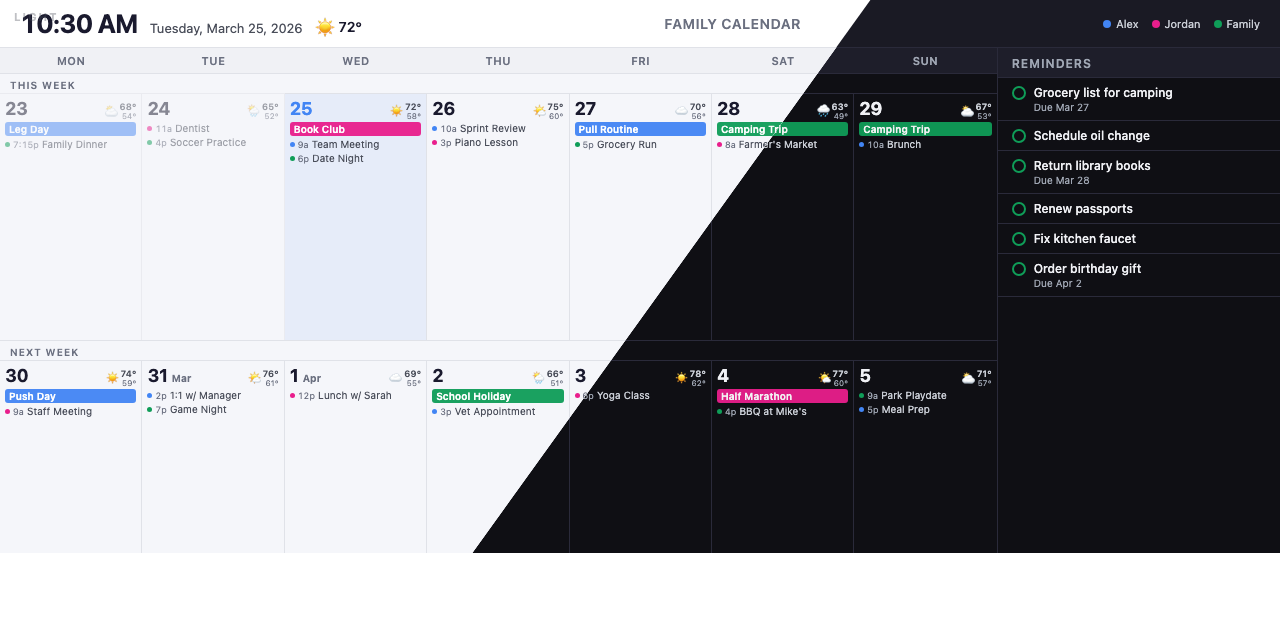
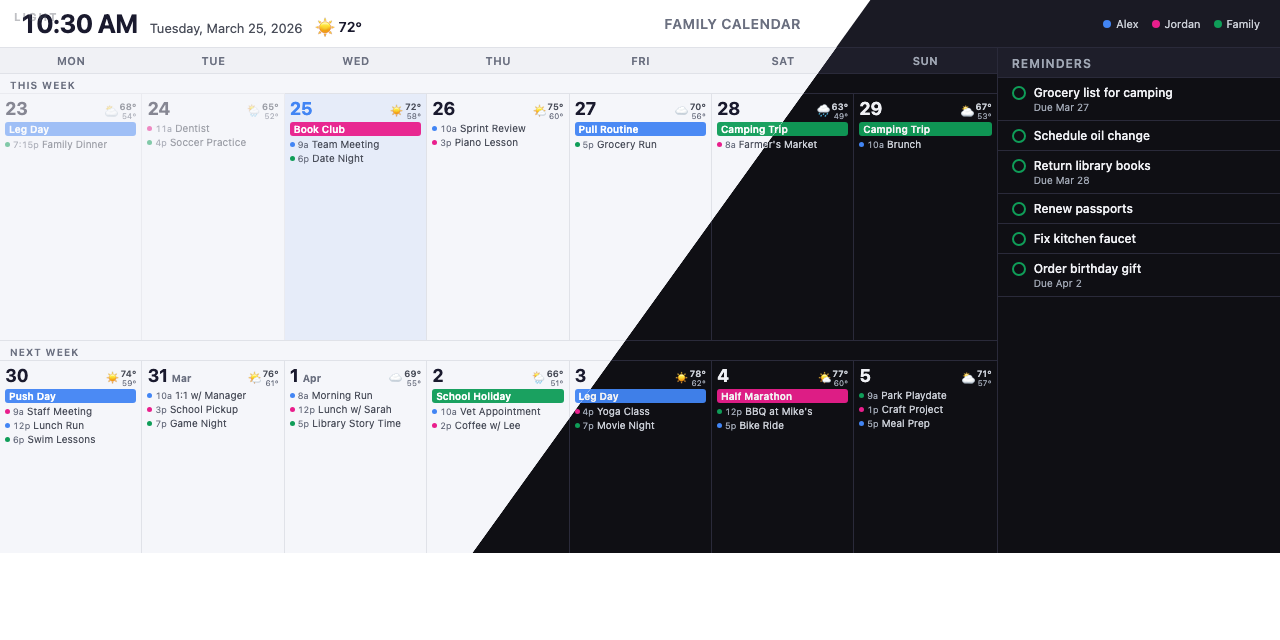
Fill out Next Week row in social preview to eliminate empty dark void
Added more sample events (3 per day) to the second week so the
bottom of the diagonal split-screen looks populated instead of
cut off in the dark theme area.

diff --git a/deploy/social-preview.html b/deploy/social-preview.html
@@ -465,33 +465,43 @@ body {
           <div class="day-cell-header"><div class="day-cell-date">30</div><div class="day-weather"><span class="day-weather-icon">&#x2600;&#xFE0F;</span><div class="day-weather-temps"><span class="day-weather-hi">74&#176;</span><span class="day-weather-lo">59&#176;</span></div></div></div>
           <div class="allday-event" style="background:#4285f4">Push Day</div>
           <div class="timed-event"><span class="timed-event-dot" style="background:#e91e8c"></span><span class="timed-event-time">9a</span><span class="timed-event-title">Staff Meeting</span></div>
+          <div class="timed-event"><span class="timed-event-dot" style="background:#4285f4"></span><span class="timed-event-time">12p</span><span class="timed-event-title">Lunch Run</span></div>
+          <div class="timed-event"><span class="timed-event-dot" style="background:#0f9d58"></span><span class="timed-event-time">6p</span><span class="timed-event-title">Swim Lessons</span></div>
         </div>
         <div class="day-cell">
           <div class="day-cell-header"><div class="day-cell-date">31 <span class="day-cell-month">Mar</span></div><div class="day-weather"><span class="day-weather-icon">&#x1F324;&#xFE0F;</span><div class="day-weather-temps"><span class="day-weather-hi">76&#176;</span><span class="day-weather-lo">61&#176;</span></div></div></div>
-          <div class="timed-event"><span class="timed-event-dot" style="background:#4285f4"></span><span class="timed-event-time">2p</span><span class="timed-event-title">1:1 w/ Manager</span></div>
+          <div class="timed-event"><span class="timed-event-dot" style="background:#4285f4"></span><span class="timed-event-time">10a</span><span class="timed-event-title">1:1 w/ Manager</span></div>
+          <div class="timed-event"><span class="timed-event-dot" style="background:#e91e8c"></span><span class="timed-event-time">3p</span><span class="timed-event-title">School Pickup</span></div>
           <div class="timed-event"><span class="timed-event-dot" style="background:#0f9d58"></span><span class="timed-event-time">7p</span><span class="timed-event-title">Game Night</span></div>
         </div>
         <div class="day-cell">
           <div class="day-cell-header"><div class="day-cell-date">1 <span class="day-cell-month">Apr</span></div><div class="day-weather"><span class="day-weather-icon">&#x2601;&#xFE0F;</span><div class="day-weather-temps"><span class="day-weather-hi">69&#176;</span><span class="day-weather-lo">55&#176;</span></div></div></div>
+          <div class="timed-event"><span class="timed-event-dot" style="background:#4285f4"></span><span class="timed-event-time">8a</span><span class="timed-event-title">Morning Run</span></div>
           <div class="timed-event"><span class="timed-event-dot" style="background:#e91e8c"></span><span class="timed-event-time">12p</span><span class="timed-event-title">Lunch w/ Sarah</span></div>
+          <div class="timed-event"><span class="timed-event-dot" style="background:#0f9d58"></span><span class="timed-event-time">5p</span><span class="timed-event-title">Library Story Time</span></div>
         </div>
         <div class="day-cell">
           <div class="day-cell-header"><div class="day-cell-date">2</div><div class="day-weather"><span class="day-weather-icon">&#x1F326;&#xFE0F;</span><div class="day-weather-temps"><span class="day-weather-hi">66&#176;</span><span class="day-weather-lo">51&#176;</span></div></div></div>
           <div class="allday-event" style="background:#0f9d58">School Holiday</div>
-          <div class="timed-event"><span class="timed-event-dot" style="background:#4285f4"></span><span class="timed-event-time">3p</span><span class="timed-event-title">Vet Appointment</span></div>
+          <div class="timed-event"><span class="timed-event-dot" style="background:#4285f4"></span><span class="timed-event-time">10a</span><span class="timed-event-title">Vet Appointment</span></div>
+          <div class="timed-event"><span class="timed-event-dot" style="background:#e91e8c"></span><span class="timed-event-time">2p</span><span class="timed-event-title">Coffee w/ Lee</span></div>
         </div>
         <div class="day-cell">
           <div class="day-cell-header"><div class="day-cell-date">3</div><div class="day-weather"><span class="day-weather-icon">&#x2600;&#xFE0F;</span><div class="day-weather-temps"><span class="day-weather-hi">78&#176;</span><span class="day-weather-lo">62&#176;</span></div></div></div>
-          <div class="timed-event"><span class="timed-event-dot" style="background:#e91e8c"></span><span class="timed-event-time">6p</span><span class="timed-event-title">Yoga Class</span></div>
+          <div class="allday-event" style="background:#4285f4">Leg Day</div>
+          <div class="timed-event"><span class="timed-event-dot" style="background:#e91e8c"></span><span class="timed-event-time">4p</span><span class="timed-event-title">Yoga Class</span></div>
+          <div class="timed-event"><span class="timed-event-dot" style="background:#0f9d58"></span><span class="timed-event-time">7p</span><span class="timed-event-title">Movie Night</span></div>
         </div>
         <div class="day-cell">
           <div class="day-cell-header"><div class="day-cell-date">4</div><div class="day-weather"><span class="day-weather-icon">&#x1F324;&#xFE0F;</span><div class="day-weather-temps"><span class="day-weather-hi">77&#176;</span><span class="day-weather-lo">60&#176;</span></div></div></div>
           <div class="allday-event" style="background:#e91e8c">Half Marathon</div>
-          <div class="timed-event"><span class="timed-event-dot" style="background:#0f9d58"></span><span class="timed-event-time">4p</span><span class="timed-event-title">BBQ at Mike's</span></div>
+          <div class="timed-event"><span class="timed-event-dot" style="background:#0f9d58"></span><span class="timed-event-time">12p</span><span class="timed-event-title">BBQ at Mike's</span></div>
+          <div class="timed-event"><span class="timed-event-dot" style="background:#4285f4"></span><span class="timed-event-time">5p</span><span class="timed-event-title">Bike Ride</span></div>
         </div>
         <div class="day-cell">
           <div class="day-cell-header"><div class="day-cell-date">5</div><div class="day-weather"><span class="day-weather-icon">&#x26C5;</span><div class="day-weather-temps"><span class="day-weather-hi">71&#176;</span><span class="day-weather-lo">57&#176;</span></div></div></div>
           <div class="timed-event"><span class="timed-event-dot" style="background:#0f9d58"></span><span class="timed-event-time">9a</span><span class="timed-event-title">Park Playdate</span></div>
+          <div class="timed-event"><span class="timed-event-dot" style="background:#e91e8c"></span><span class="timed-event-time">1p</span><span class="timed-event-title">Craft Project</span></div>
           <div class="timed-event"><span class="timed-event-dot" style="background:#4285f4"></span><span class="timed-event-time">5p</span><span class="timed-event-title">Meal Prep</span></div>
         </div>
       </div>
@@ -598,33 +608,43 @@ body {
           <div class="day-cell-header"><div class="day-cell-date">30</div><div class="day-weather"><span class="day-weather-icon">&#x2600;&#xFE0F;</span><div class="day-weather-temps"><span class="day-weather-hi">74&#176;</span><span class="day-weather-lo">59&#176;</span></div></div></div>
           <div class="allday-event" style="background:#4285f4">Push Day</div>
           <div class="timed-event"><span class="timed-event-dot" style="background:#e91e8c"></span><span class="timed-event-time">9a</span><span class="timed-event-title">Staff Meeting</span></div>
+          <div class="timed-event"><span class="timed-event-dot" style="background:#4285f4"></span><span class="timed-event-time">12p</span><span class="timed-event-title">Lunch Run</span></div>
+          <div class="timed-event"><span class="timed-event-dot" style="background:#0f9d58"></span><span class="timed-event-time">6p</span><span class="timed-event-title">Swim Lessons</span></div>
         </div>
         <div class="day-cell">
           <div class="day-cell-header"><div class="day-cell-date">31 <span class="day-cell-month">Mar</span></div><div class="day-weather"><span class="day-weather-icon">&#x1F324;&#xFE0F;</span><div class="day-weather-temps"><span class="day-weather-hi">76&#176;</span><span class="day-weather-lo">61&#176;</span></div></div></div>
-          <div class="timed-event"><span class="timed-event-dot" style="background:#4285f4"></span><span class="timed-event-time">2p</span><span class="timed-event-title">1:1 w/ Manager</span></div>
+          <div class="timed-event"><span class="timed-event-dot" style="background:#4285f4"></span><span class="timed-event-time">10a</span><span class="timed-event-title">1:1 w/ Manager</span></div>
+          <div class="timed-event"><span class="timed-event-dot" style="background:#e91e8c"></span><span class="timed-event-time">3p</span><span class="timed-event-title">School Pickup</span></div>
           <div class="timed-event"><span class="timed-event-dot" style="background:#0f9d58"></span><span class="timed-event-time">7p</span><span class="timed-event-title">Game Night</span></div>
         </div>
         <div class="day-cell">
           <div class="day-cell-header"><div class="day-cell-date">1 <span class="day-cell-month">Apr</span></div><div class="day-weather"><span class="day-weather-icon">&#x2601;&#xFE0F;</span><div class="day-weather-temps"><span class="day-weather-hi">69&#176;</span><span class="day-weather-lo">55&#176;</span></div></div></div>
+          <div class="timed-event"><span class="timed-event-dot" style="background:#4285f4"></span><span class="timed-event-time">8a</span><span class="timed-event-title">Morning Run</span></div>
           <div class="timed-event"><span class="timed-event-dot" style="background:#e91e8c"></span><span class="timed-event-time">12p</span><span class="timed-event-title">Lunch w/ Sarah</span></div>
+          <div class="timed-event"><span class="timed-event-dot" style="background:#0f9d58"></span><span class="timed-event-time">5p</span><span class="timed-event-title">Library Story Time</span></div>
         </div>
         <div class="day-cell">
           <div class="day-cell-header"><div class="day-cell-date">2</div><div class="day-weather"><span class="day-weather-icon">&#x1F326;&#xFE0F;</span><div class="day-weather-temps"><span class="day-weather-hi">66&#176;</span><span class="day-weather-lo">51&#176;</span></div></div></div>
           <div class="allday-event" style="background:#0f9d58">School Holiday</div>
-          <div class="timed-event"><span class="timed-event-dot" style="background:#4285f4"></span><span class="timed-event-time">3p</span><span class="timed-event-title">Vet Appointment</span></div>
+          <div class="timed-event"><span class="timed-event-dot" style="background:#4285f4"></span><span class="timed-event-time">10a</span><span class="timed-event-title">Vet Appointment</span></div>
+          <div class="timed-event"><span class="timed-event-dot" style="background:#e91e8c"></span><span class="timed-event-time">2p</span><span class="timed-event-title">Coffee w/ Lee</span></div>
         </div>
         <div class="day-cell">
           <div class="day-cell-header"><div class="day-cell-date">3</div><div class="day-weather"><span class="day-weather-icon">&#x2600;&#xFE0F;</span><div class="day-weather-temps"><span class="day-weather-hi">78&#176;</span><span class="day-weather-lo">62&#176;</span></div></div></div>
-          <div class="timed-event"><span class="timed-event-dot" style="background:#e91e8c"></span><span class="timed-event-time">6p</span><span class="timed-event-title">Yoga Class</span></div>
+          <div class="allday-event" style="background:#4285f4">Leg Day</div>
+          <div class="timed-event"><span class="timed-event-dot" style="background:#e91e8c"></span><span class="timed-event-time">4p</span><span class="timed-event-title">Yoga Class</span></div>
+          <div class="timed-event"><span class="timed-event-dot" style="background:#0f9d58"></span><span class="timed-event-time">7p</span><span class="timed-event-title">Movie Night</span></div>
         </div>
         <div class="day-cell">
           <div class="day-cell-header"><div class="day-cell-date">4</div><div class="day-weather"><span class="day-weather-icon">&#x1F324;&#xFE0F;</span><div class="day-weather-temps"><span class="day-weather-hi">77&#176;</span><span class="day-weather-lo">60&#176;</span></div></div></div>
           <div class="allday-event" style="background:#e91e8c">Half Marathon</div>
-          <div class="timed-event"><span class="timed-event-dot" style="background:#0f9d58"></span><span class="timed-event-time">4p</span><span class="timed-event-title">BBQ at Mike's</span></div>
+          <div class="timed-event"><span class="timed-event-dot" style="background:#0f9d58"></span><span class="timed-event-time">12p</span><span class="timed-event-title">BBQ at Mike's</span></div>
+          <div class="timed-event"><span class="timed-event-dot" style="background:#4285f4"></span><span class="timed-event-time">5p</span><span class="timed-event-title">Bike Ride</span></div>
         </div>
         <div class="day-cell">
           <div class="day-cell-header"><div class="day-cell-date">5</div><div class="day-weather"><span class="day-weather-icon">&#x26C5;</span><div class="day-weather-temps"><span class="day-weather-hi">71&#176;</span><span class="day-weather-lo">57&#176;</span></div></div></div>
           <div class="timed-event"><span class="timed-event-dot" style="background:#0f9d58"></span><span class="timed-event-time">9a</span><span class="timed-event-title">Park Playdate</span></div>
+          <div class="timed-event"><span class="timed-event-dot" style="background:#e91e8c"></span><span class="timed-event-time">1p</span><span class="timed-event-title">Craft Project</span></div>
           <div class="timed-event"><span class="timed-event-dot" style="background:#4285f4"></span><span class="timed-event-time">5p</span><span class="timed-event-title">Meal Prep</span></div>
         </div>
       </div>
